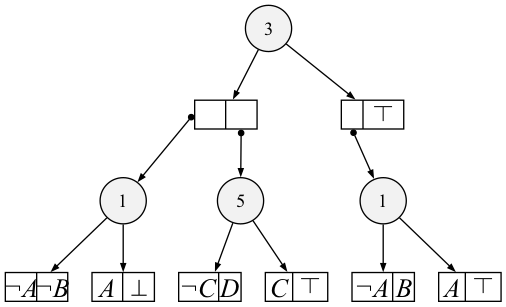
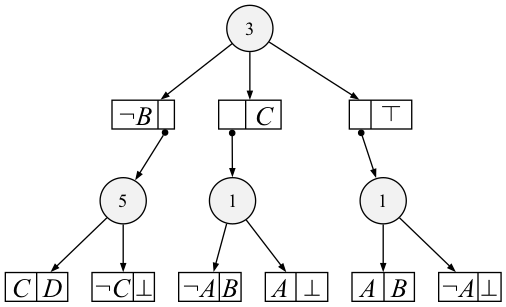
sdd changer fixed

diff --git a/src/dnf_to_sdd.py b/src/dnf_to_sdd.py
@@ -1,7 +1,19 @@
 from pysdd.sdd import SddManager, Vtree
 from pyeda.boolalg.expr import Variable, Complement, AndOp, OrOp
 
-def run_sdd_from_pyeda_obj(pyeda_expr):
+def dnf_to_str(node):
+    if isinstance(node, Variable):
+        return str(node)
+    elif isinstance(node, AndOp):
+        child_nodes = [dnf_to_str(child) for child in node.xs]
+        return "(" + " & ".join(child_nodes) + ")"
+    elif isinstance(node, OrOp):
+        child_nodes = [dnf_to_str(child) for child in node.xs]
+        return "(" + " | ".join(child_nodes) + ")"
+    else:
+        raise ValueError(f"Unknown node type: {type(node)}")
+
+def run_sdd_from_pyeda_obj(pyeda_expr, formula_str):
     """
     PyEDAの式オブジェクトを直接受け取り、SDDに変換する。
     """
@@ -21,16 +33,22 @@ def run_sdd_from_pyeda_obj(pyeda_expr):
     # 2. SDDマネージャーの初期化
     var_count = len(support_vars)
     var_order = list(range(1, var_count + 1))
+    
     vtree = Vtree(var_count=var_count, var_order=var_order, vtree_type="balanced")
     sdd_manager = SddManager.from_vtree(vtree)
 
     # 変数名とSDD変数の対応付け
     name_to_sdd_var = {name: sdd_manager.vars[i+1] for i, name in enumerate(support_vars)}
 
+    dnf_str = dnf_to_str(pyeda_expr)
+    print(dnf_str)
+    """
     # 3. 再帰的に変換する内部関数
     def visit(node):
+        print(node)
         # 変数
         if isinstance(node, Variable):
+            print(name_to_sdd_var[str(node)])
             return name_to_sdd_var[str(node)]
         
         # 否定 (NOT)
@@ -43,6 +61,7 @@ def run_sdd_from_pyeda_obj(pyeda_expr):
             result = visit(node.inputs[0])
             for child in node.inputs[1:]:
                 result = result & visit(child)
+                print(result)
             return result
             
         # 論理和 (OR) -> 型は OrOp
@@ -61,12 +80,10 @@ def run_sdd_from_pyeda_obj(pyeda_expr):
         else:
             # 万が一他の型（NotOpなど）が来た場合のためのデバッグ表示
             raise ValueError(f"Unknown node type: {type(node)}")
-
+    """
     # 変換実行
-    sdd_node = visit(pyeda_expr)
+    sdd_node = eval(dnf_str, {}, name_to_sdd_var)
 
-    # --- 以下、可視化やモデルカウント ---
-    
     with open("output/sdd.dot", "w") as out:
         print(sdd_node.dot(), file=out)
     with open("output/vtree.dot", "w") as out:

diff --git a/src/main.py b/src/main.py
@@ -1,17 +1,24 @@
-import subprocess
-import sys
-import os
-import re
-from pathlib import Path
 from FT_to_dnf import xml_to_formula, formula_to_dnf, prob_map
-from to_sdd import run_sdd_from_pyeda_obj
+from dnf_to_sdd import run_sdd_from_pyeda_obj
+
+def search(current_node):
+    print(current_node.elements())
+    for node in current_node.elements():
+        p, s = node
+        #print(p, s)
+        if p.is_decision():
+            search(p)
+        if s.is_decision():
+            search(s)
+    """if current_node.elements().is_decision():
+        print(current_node.elements())"""
 
 def main():
-    os.chdir('..')
     xml_file = "./FTA/sddEx.xml"
     
     # 1. XML -> 論理式文字列
     formula_str = xml_to_formula(xml_file)
+    print(formula_str)
     
     # 2. 文字列 -> PyEDAオブジェクト (DNF化)
     # ここで dnf_expr は既に PyEDA のオブジェクト構造を持っています
@@ -26,23 +33,12 @@ def main():
 
     # 3. PyEDAオブジェクト -> SDD (文字列変換をスキップ！)
     # 戻り値として sddノード, マネージャ, 変数マッピングを受け取る
-    result = run_sdd_from_pyeda_obj(dnf_expr)
+    result = run_sdd_from_pyeda_obj(dnf_expr, formula_str)
     
     if result:
         sdd_node, mgr, var_map = result
-        
-        # モデルカウント (確率計算)
-        wmc = sdd_node.wmc(log_mode=False)
-        for name, prob in prob_map.items():
-            if name in var_map:
-                sdd_var = var_map[name]
-                wmc.set_literal_weight(sdd_var, prob)
-                wmc.set_literal_weight(-sdd_var, 1.0 - prob)
-        
-        print(f"\nSystem Reliability (Probability): {wmc.propagate()}")
-
-        # --- 画像変換処理 (ここを呼び出し) ---
-        print("\n--- Generating Images ---")
+        #print(sdd_node)
+        search(sdd_node)
 
 if __name__ == "__main__":
     main()

diff --git a/output/draw.py b/output/draw.py
@@ -6,7 +6,7 @@ import re
 file_path = Path('./output')
 for file in os.listdir(file_path):
     if file.endswith(".dot"):
-        graph = re.search(r'[a-zA-Z]+', str(file))
+        graph = re.search(r'([a-zA-Z]+-?_?)+', str(file))
         print(graph.group())
         cmd = r"sed 's/:[a-z]\{1,2\}//g' " + str(file_path) + "/" + graph.group() + ".dot | dot -Tpng -Gsplines=false -o " + str(file_path) + "/" + graph.group() + ".png"
         try:
